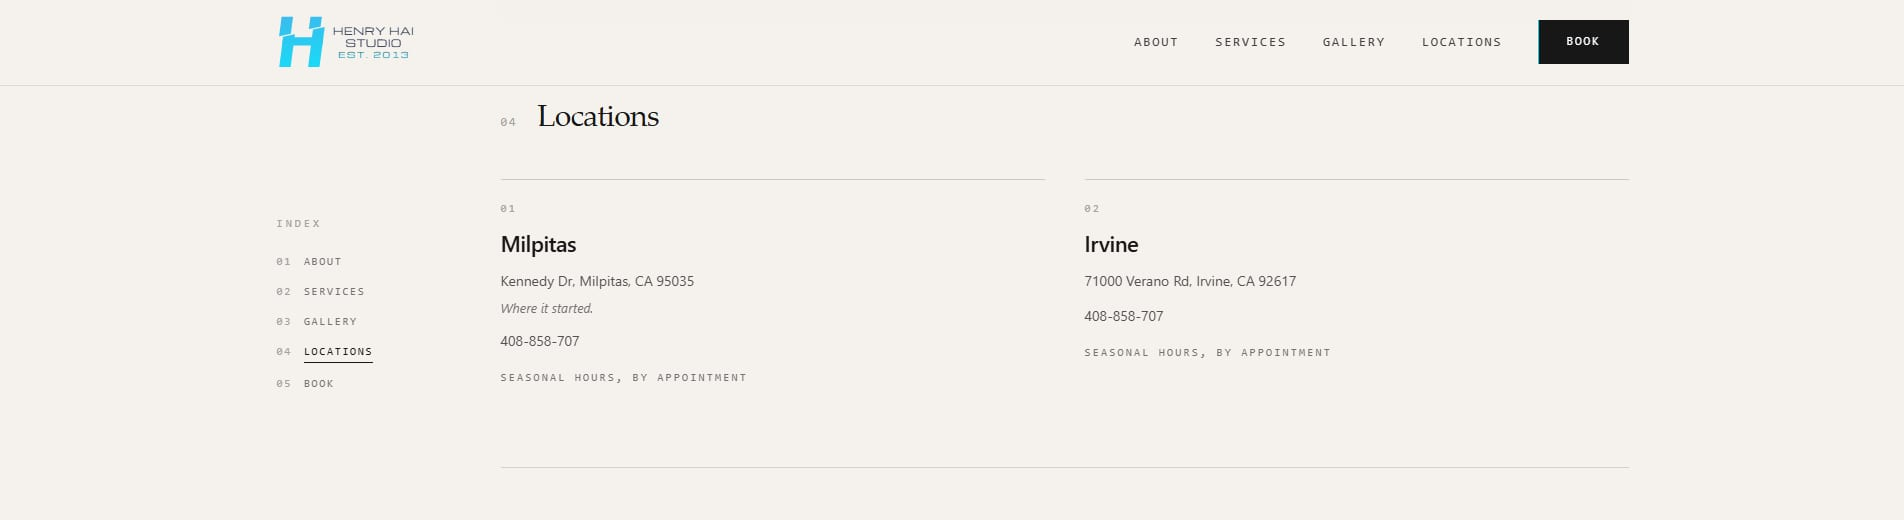
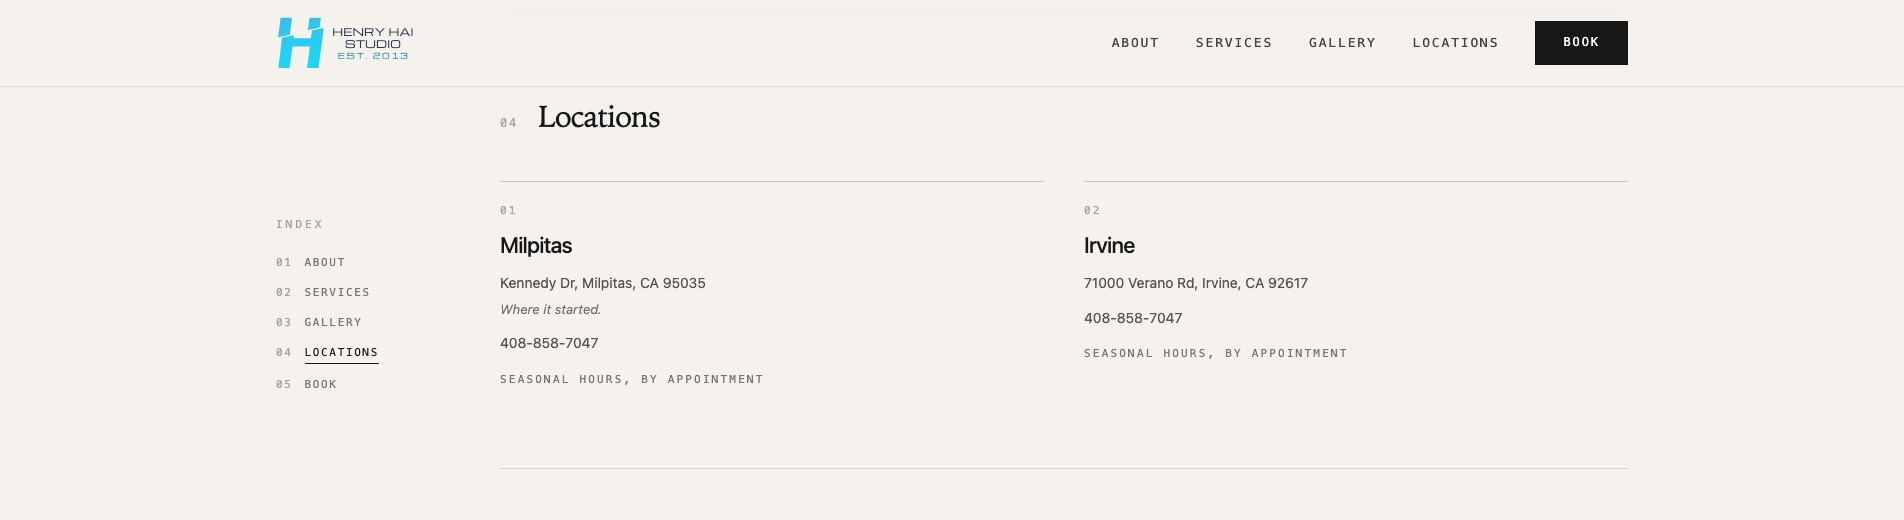
Point the README at the AWS stack
A short paragraph in the deployment section says what lives in infra/,
why it exists, and that the booking API now runs there while the site
itself still serves from Vercel. Also carries the shop phone number fix
and the matching locations screenshot.

diff --git a/README.md b/README.md
@@ -8,7 +8,7 @@ The customer-facing site is a statically generated Next.js app in `web/`, deploy
 
 - **Live site:** [henryhaistudio.com](https://henryhaistudio.com)
 
-The earlier hand-rolled static version is still up on GitHub Pages from a separate repo. It is the one currently serving clients, and it is unrelated to this codebase:
+The earlier hand-rolled static version is still up on GitHub Pages from a separate repo. It has been superseded by this one and is unrelated to this codebase:
 
 - **Previous site:** [henry-hai.github.io/barber_website/](https://henry-hai.github.io/barber_website/) ([source](https://github.com/henry-hai/barber_website))
 
@@ -241,6 +241,8 @@ Several of them exist because a bug reached production first, and each says so i
 ## Deployment
 
 Two hosts, because the pieces have different shapes. The site is static and belongs on a CDN; the API holds a long-lived IMAP connection and needs a process that stays up, which rules out a serverless function.
+
+There is also an AWS version of the booking path in `infra/`: API Gateway in front of two Python Lambdas, DynamoDB, and S3 behind CloudFront, as one SAM stack per stage. It exists because Render's free tier sleeps after fifteen idle minutes and the first booking after that waited 51 s. It is deployed to a test stage and is not yet what the live site uses. `infra/README.md` has the service list, the deploy and the rollback.
 
 **No credential is committed.** `serverInfo.json` and `serviceAccount.json` are gitignored, and every value below is set in the host's own dashboard.
 
